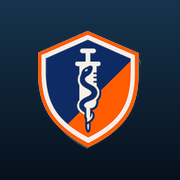
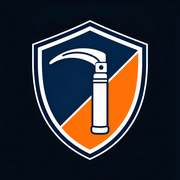
feat(isr): novo ícone do app — escudo CT-Med com lâmina de laringoscópio
Gera icon-192, icon-512 e apple-touch-icon a partir da arte nova,
com o fundo achatado para #040b15 (mesmo background_color/theme_color
do manifest) para não aparecer um quadrado de navio diferente na
splash do PWA.

Sobe o cache do service worker para v2 — sem isso os PWAs já
instalados continuariam servindo os ícones antigos.

Claude-Session: https://claude.ai/code/session_01FMT3nK8FYQ6o1hbfhvXT5G

diff --git a/isr/sw.js b/isr/sw.js
@@ -1,4 +1,4 @@
-const C='ctmed-isr-v1';const A=['./','index.html','manifest.webmanifest','icon-192.png','icon-512.png','apple-touch-icon.png'];
+const C='ctmed-isr-v2';const A=['./','index.html','manifest.webmanifest','icon-192.png','icon-512.png','apple-touch-icon.png'];
 self.addEventListener('install',e=>{e.waitUntil(caches.open(C).then(c=>c.addAll(A)).then(()=>self.skipWaiting()))});
 self.addEventListener('activate',e=>{e.waitUntil(caches.keys().then(k=>Promise.all(k.filter(x=>x!==C).map(x=>caches.delete(x)))).then(()=>self.clients.claim()))});
 self.addEventListener('fetch',e=>{if(e.request.method!=='GET')return;e.respondWith(fetch(e.request).then(r=>{const cp=r.clone();caches.open(C).then(c=>c.put(e.request,cp));return r}).catch(()=>caches.match(e.request).then(r=>r||caches.match('index.html'))))});
